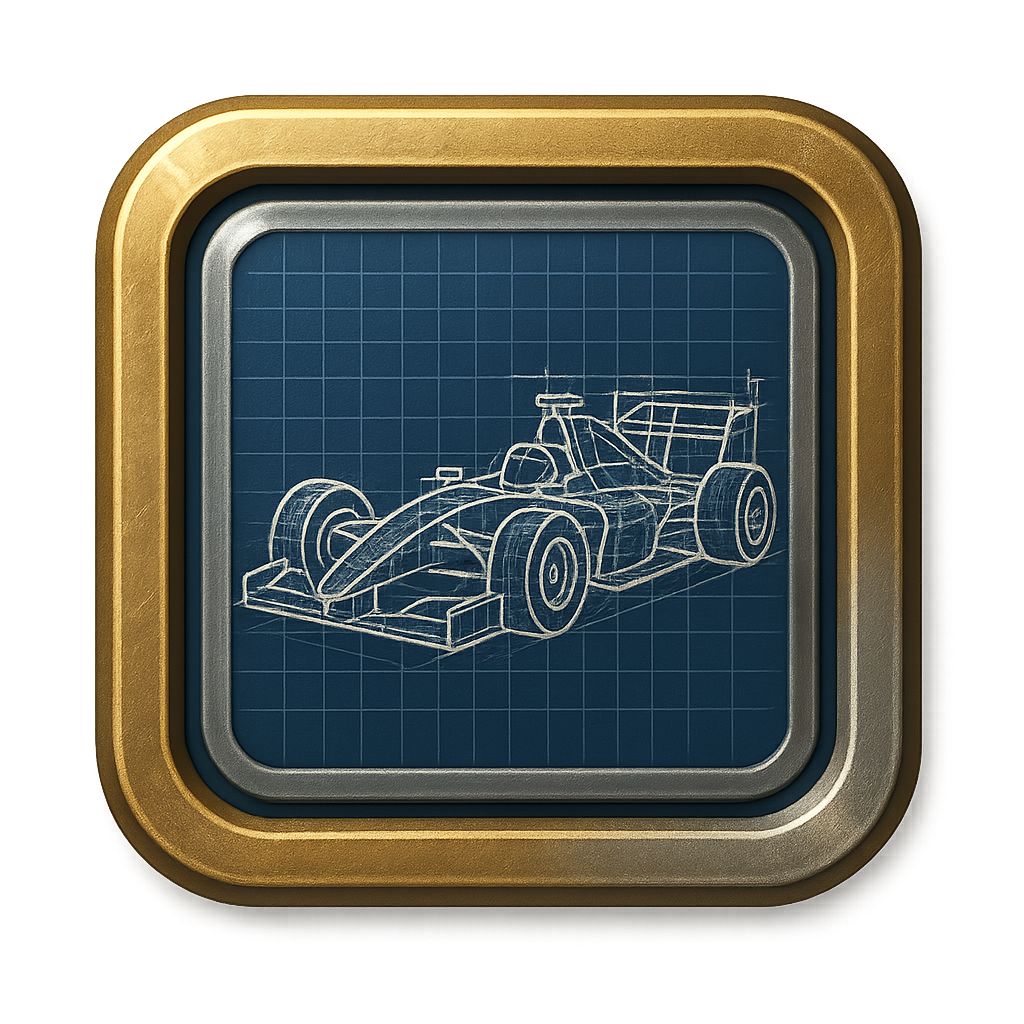
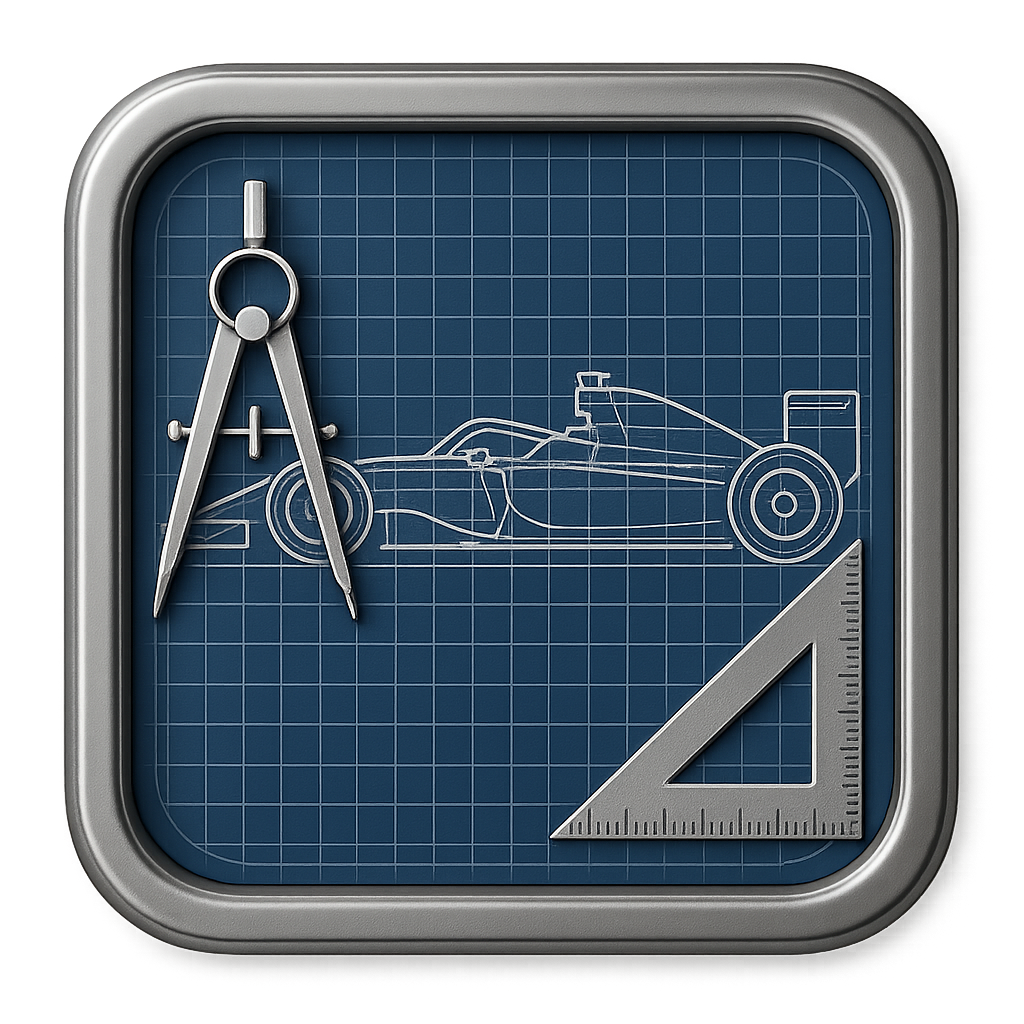
feat: Add badge generation scripts and rename images
- Created/Started/Unblocked badges generated
- GP/Seasonal/Championship badge script created
- Renamed badge images to image_0.png format

diff --git a/apps/web/public/badges/create-1000-legendary/index.html b/apps/web/public/badges/create-1000-legendary/index.html
@@ -15,7 +15,7 @@
 <p>Output: <code>create-1000-legendary</code></p>
 <div class="grid">
 <figure>
-  <a href="001-racing-badge-emblem-diamond-and-rainbow-.png"><img src="001-racing-badge-emblem-diamond-and-rainbow-.png" loading="lazy" /></a>
-  <figcaption>Racing badge emblem, diamond and rainbow chrome frame, legendary architect with wings and crown, ultimate creator legend theme, square medal, transparent background, no text</figcaption>
+  <a href="001-racing-badge-emblem-diamond-frame-ancien.png"><img src="001-racing-badge-emblem-diamond-frame-ancien.png" loading="lazy" /></a>
+  <figcaption>Racing badge emblem, diamond frame, ancient scroll with golden pen and racing symbols, legendary architect immortal theme, square medal, transparent background, no text</figcaption>
 </figure>
 </div>

diff --git a/apps/web/public/badges/create-250-visionary/index.html b/apps/web/public/badges/create-250-visionary/index.html
@@ -15,7 +15,7 @@
 <p>Output: <code>create-250-visionary</code></p>
 <div class="grid">
 <figure>
-  <a href="001-racing-badge-emblem-gold-frame-eye-with-.png"><img src="001-racing-badge-emblem-gold-frame-eye-with-.png" loading="lazy" /></a>
-  <figcaption>Racing badge emblem, gold frame, eye with futuristic race track reflection, visionary foresight theme, square medal, transparent background, no text</figcaption>
+  <a href="001-racing-badge-emblem-gold-frame-crystal-b.png"><img src="001-racing-badge-emblem-gold-frame-crystal-b.png" loading="lazy" /></a>
+  <figcaption>Racing badge emblem, gold frame, crystal ball showing future race track, visionary foresight theme, square medal, transparent background, no text</figcaption>
 </figure>
 </div>

diff --git a/apps/web/public/badges/create-50-architect/index.html b/apps/web/public/badges/create-50-architect/index.html
@@ -15,7 +15,7 @@
 <p>Output: <code>create-50-architect</code></p>
 <div class="grid">
 <figure>
-  <a href="001-racing-badge-emblem-silver-gold-frame-bl.png"><img src="001-racing-badge-emblem-silver-gold-frame-bl.png" loading="lazy" /></a>
-  <figcaption>Racing badge emblem, silver-gold frame, blueprint with race car design, architect builder theme, square medal, transparent background, no text</figcaption>
+  <a href="001-racing-badge-emblem-silver-frame-bluepri.png"><img src="001-racing-badge-emblem-silver-frame-bluepri.png" loading="lazy" /></a>
+  <figcaption>Racing badge emblem, silver frame, blueprint of race car with compass and ruler, architect designer theme, square medal, transparent background, no text</figcaption>
 </figure>
 </div>

diff --git a/apps/web/public/badges/start-50-cruising/index.html b/apps/web/public/badges/start-50-cruising/index.html
@@ -15,7 +15,7 @@
 <p>Output: <code>start-50-cruising</code></p>
 <div class="grid">
 <figure>
-  <a href="001-racing-badge-emblem-silver-gold-frame-ra.png"><img src="001-racing-badge-emblem-silver-gold-frame-ra.png" loading="lazy" /></a>
-  <figcaption>Racing badge emblem, silver-gold frame, race car cruising at high speed on highway, smooth cruising theme, square medal, transparent background, no text</figcaption>
+  <a href="001-racing-badge-emblem-silver-frame-race-ca.png"><img src="001-racing-badge-emblem-silver-frame-race-ca.png" loading="lazy" /></a>
+  <figcaption>Racing badge emblem, silver frame, race car on highway with wind streaks, smooth cruising theme, square medal, transparent background, no text</figcaption>
 </figure>
 </div>

diff --git a/apps/web/public/badges/create-01-first-idea/index.html b/apps/web/public/badges/create-01-first-idea/index.html
@@ -15,7 +15,7 @@
 <p>Output: <code>create-01-first-idea</code></p>
 <div class="grid">
 <figure>
-  <a href="001-racing-badge-emblem-copper-frame-lightbu.png"><img src="001-racing-badge-emblem-copper-frame-lightbu.png" loading="lazy" /></a>
-  <figcaption>Racing badge emblem, copper frame, lightbulb moment with single spark, first idea beginner theme, square medal, transparent background, no text</figcaption>
+  <a href="001-racing-badge-emblem-bronze-frame-single-.png"><img src="001-racing-badge-emblem-bronze-frame-single-.png" loading="lazy" /></a>
+  <figcaption>Racing badge emblem, bronze frame, single lightbulb with small spark, first idea brainstorm theme, square medal, transparent background, no text</figcaption>
 </figure>
 </div>

diff --git a/apps/web/public/badges/start-01-ignition/index.html b/apps/web/public/badges/start-01-ignition/index.html
@@ -15,7 +15,7 @@
 <p>Output: <code>start-01-ignition</code></p>
 <div class="grid">
 <figure>
-  <a href="001-racing-badge-emblem-copper-frame-ignitio.png"><img src="001-racing-badge-emblem-copper-frame-ignitio.png" loading="lazy" /></a>
-  <figcaption>Racing badge emblem, copper frame, ignition key with spark and starting flames, engine start theme, square medal, transparent background, no text</figcaption>
+  <a href="001-racing-badge-emblem-bronze-frame-key-in-.png"><img src="001-racing-badge-emblem-bronze-frame-key-in-.png" loading="lazy" /></a>
+  <figcaption>Racing badge emblem, bronze frame, key in ignition with small spark, first ignition start theme, square medal, transparent background, no text</figcaption>
 </figure>
 </div>

diff --git a/apps/web/public/badges/start-25-momentum/index.html b/apps/web/public/badges/start-25-momentum/index.html
@@ -15,7 +15,7 @@
 <p>Output: <code>start-25-momentum</code></p>
 <div class="grid">
 <figure>
-  <a href="001-racing-badge-emblem-silver-frame-racing-.png"><img src="001-racing-badge-emblem-silver-frame-racing-.png" loading="lazy" /></a>
-  <figcaption>Racing badge emblem, silver frame, racing car with motion blur speed lines, building momentum theme, square medal, transparent background, no text</figcaption>
+  <a href="001-racing-badge-emblem-silver-frame-rolling.png"><img src="001-racing-badge-emblem-silver-frame-rolling.png" loading="lazy" /></a>
+  <figcaption>Racing badge emblem, silver frame, rolling wheel with motion blur, building momentum theme, square medal, transparent background, no text</figcaption>
 </figure>
 </div>

diff --git a/apps/web/public/badges/create-500-empire-builder/index.html b/apps/web/public/badges/create-500-empire-builder/index.html
@@ -16,6 +16,6 @@
 <div class="grid">
 <figure>
   <a href="001-racing-badge-emblem-platinum-frame-racin.png"><img src="001-racing-badge-emblem-platinum-frame-racin.png" loading="lazy" /></a>
-  <figcaption>Racing badge emblem, platinum frame, racing empire skyline with multiple race tracks, empire builder tycoon theme, square medal, transparent background, no text</figcaption>
+  <figcaption>Racing badge emblem, platinum frame, racing empire skyline with multiple tracks, empire builder theme, square medal, transparent background, no text</figcaption>
 </figure>
 </div>

diff --git a/apps/web/public/badges/start-10-revving/index.html b/apps/web/public/badges/start-10-revving/index.html
@@ -16,6 +16,6 @@
 <div class="grid">
 <figure>
   <a href="001-racing-badge-emblem-bronze-frame-tachome.png"><img src="001-racing-badge-emblem-bronze-frame-tachome.png" loading="lazy" /></a>
-  <figcaption>Racing badge emblem, bronze frame, tachometer needle revving high with energy sparks, revving engine theme, square medal, transparent background, no text</figcaption>
+  <figcaption>Racing badge emblem, bronze frame, tachometer needle rising with engine rev, revving up theme, square medal, transparent background, no text</figcaption>
 </figure>
 </div>

diff --git a/apps/web/public/badges/create-25-strategist/index.html b/apps/web/public/badges/create-25-strategist/index.html
@@ -16,6 +16,6 @@
 <div class="grid">
 <figure>
   <a href="001-racing-badge-emblem-silver-frame-chess-p.png"><img src="001-racing-badge-emblem-silver-frame-chess-p.png" loading="lazy" /></a>
-  <figcaption>Racing badge emblem, silver frame, chess piece with checkered flag pattern, strategic mastermind theme, square medal, transparent background, no text</figcaption>
+  <figcaption>Racing badge emblem, silver frame, chess piece knight on race track, strategic thinking theme, square medal, transparent background, no text</figcaption>
 </figure>
 </div>

diff --git a/apps/web/public/badges/create-10-planner/index.html b/apps/web/public/badges/create-10-planner/index.html
@@ -16,6 +16,6 @@
 <div class="grid">
 <figure>
   <a href="001-racing-badge-emblem-bronze-frame-clipboa.png"><img src="001-racing-badge-emblem-bronze-frame-clipboa.png" loading="lazy" /></a>
-  <figcaption>Racing badge emblem, bronze frame, clipboard with race strategy plans, planner organizer theme, square medal, transparent background, no text</figcaption>
+  <figcaption>Racing badge emblem, bronze frame, clipboard with racing strategy diagram, planner organizer theme, square medal, transparent background, no text</figcaption>
 </figure>
 </div>

diff --git a/apps/web/public/badges/create-100-mastermind/index.html b/apps/web/public/badges/create-100-mastermind/index.html
@@ -16,6 +16,6 @@
 <div class="grid">
 <figure>
   <a href="001-racing-badge-emblem-gold-frame-brain-wit.png"><img src="001-racing-badge-emblem-gold-frame-brain-wit.png" loading="lazy" /></a>
-  <figcaption>Racing badge emblem, gold frame, brain with racing gears and circuits, mastermind genius theme, square medal, transparent background, no text</figcaption>
+  <figcaption>Racing badge emblem, gold frame, brain with racing circuits and gears, mastermind genius theme, square medal, transparent background, no text</figcaption>
 </figure>
 </div>
